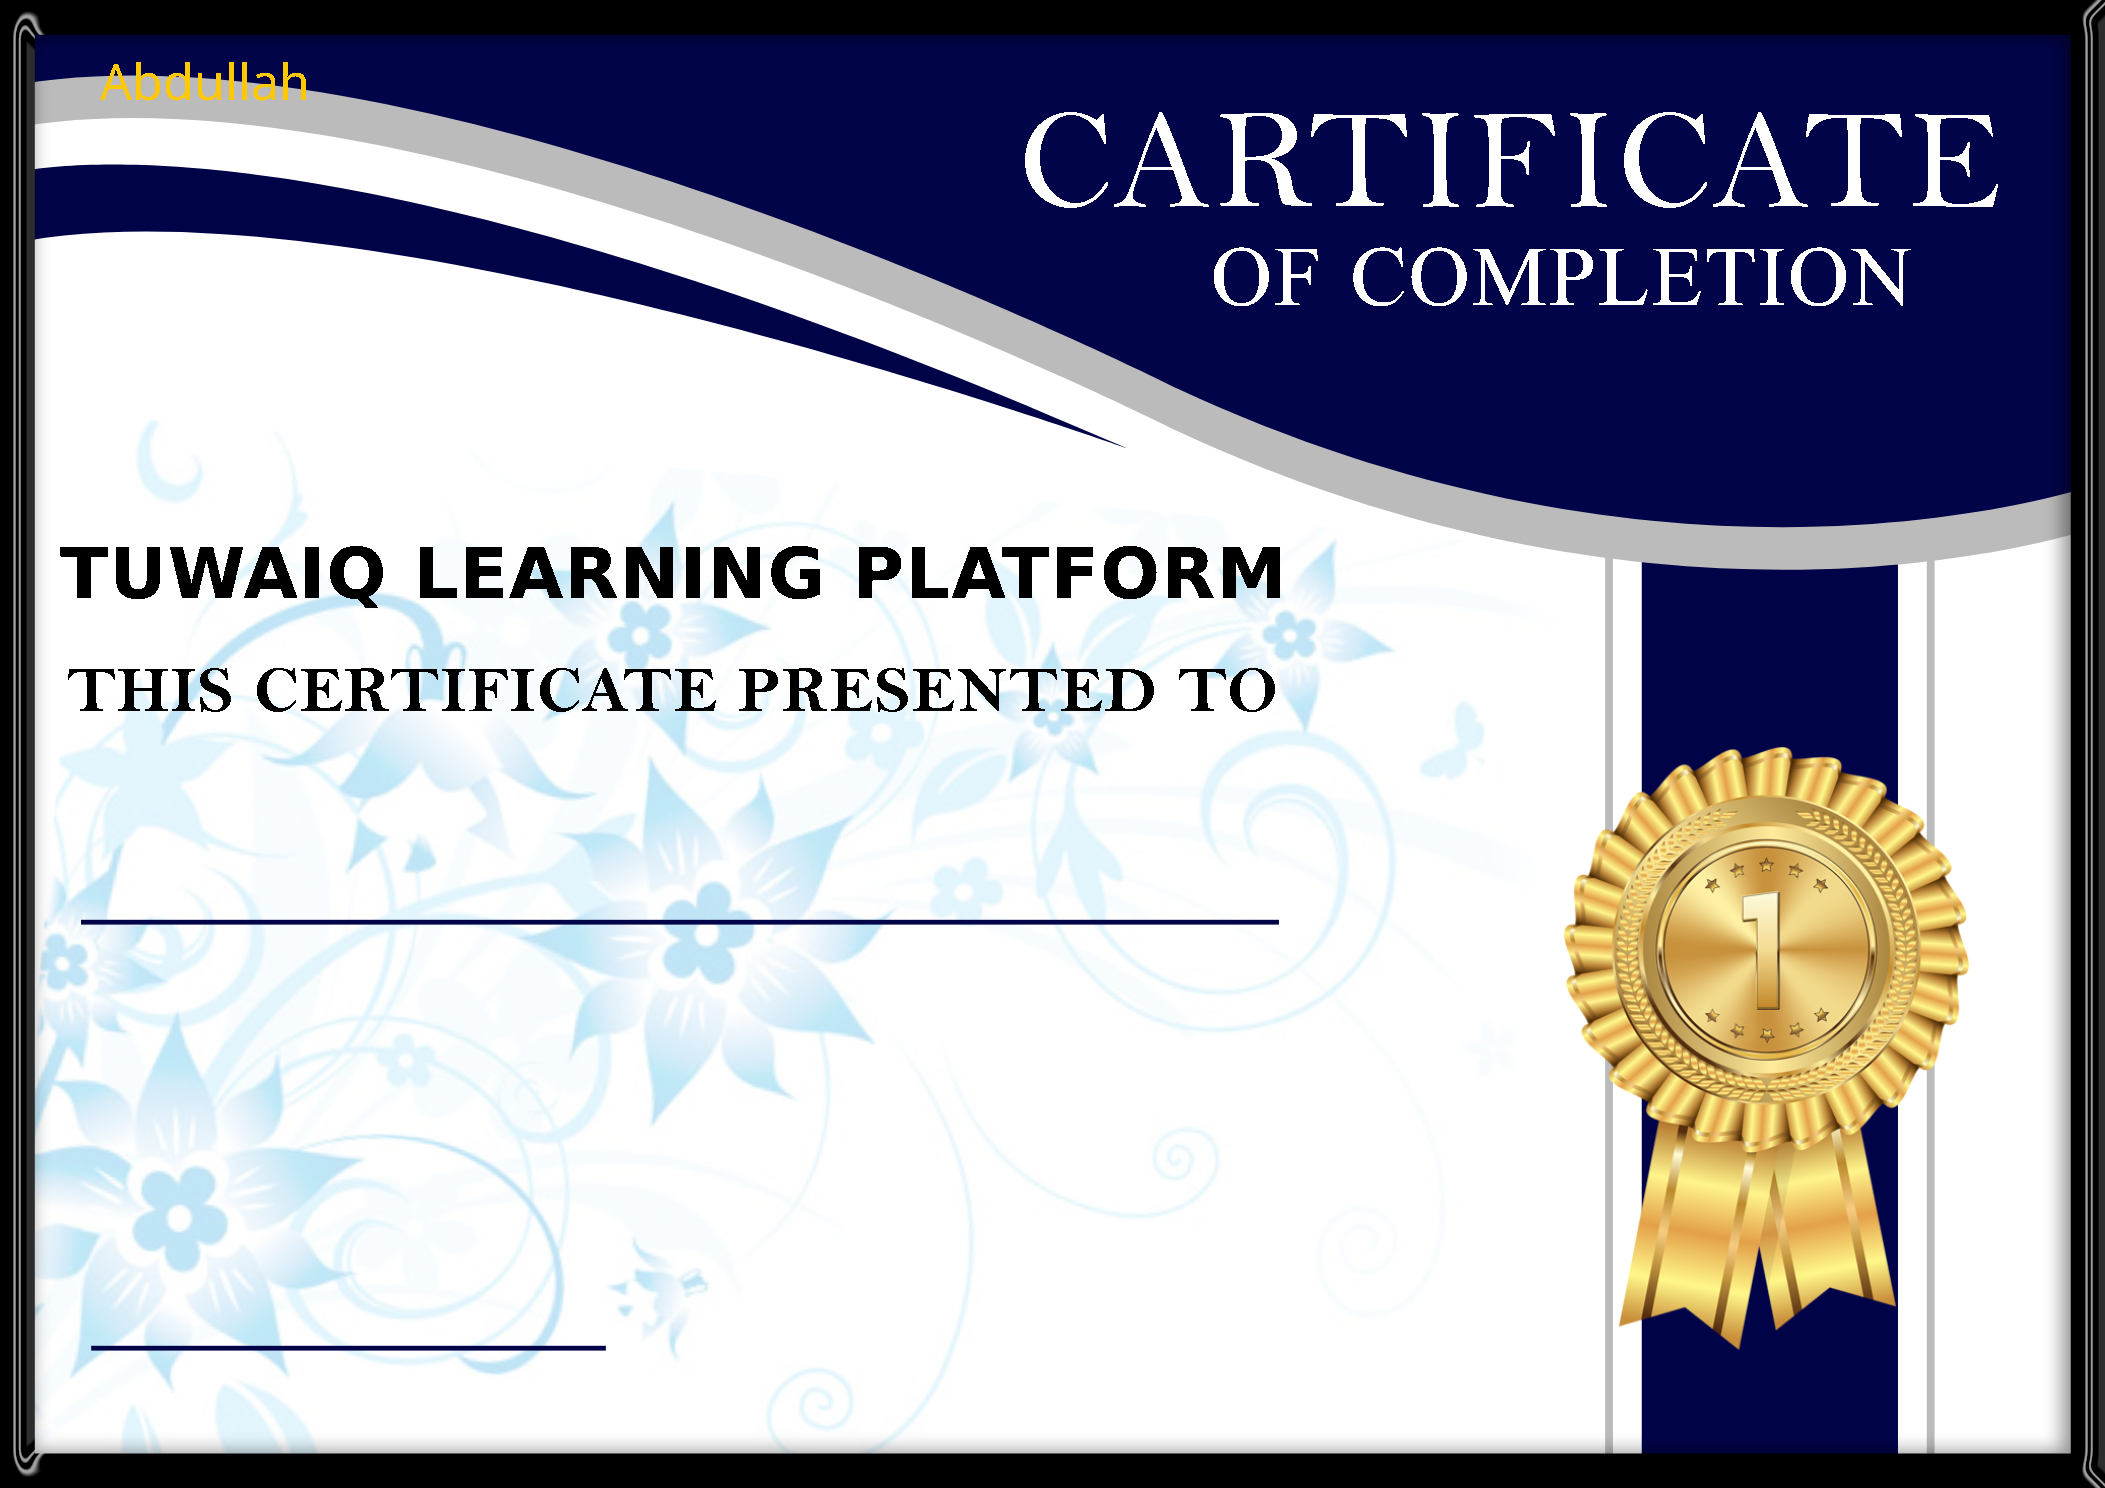
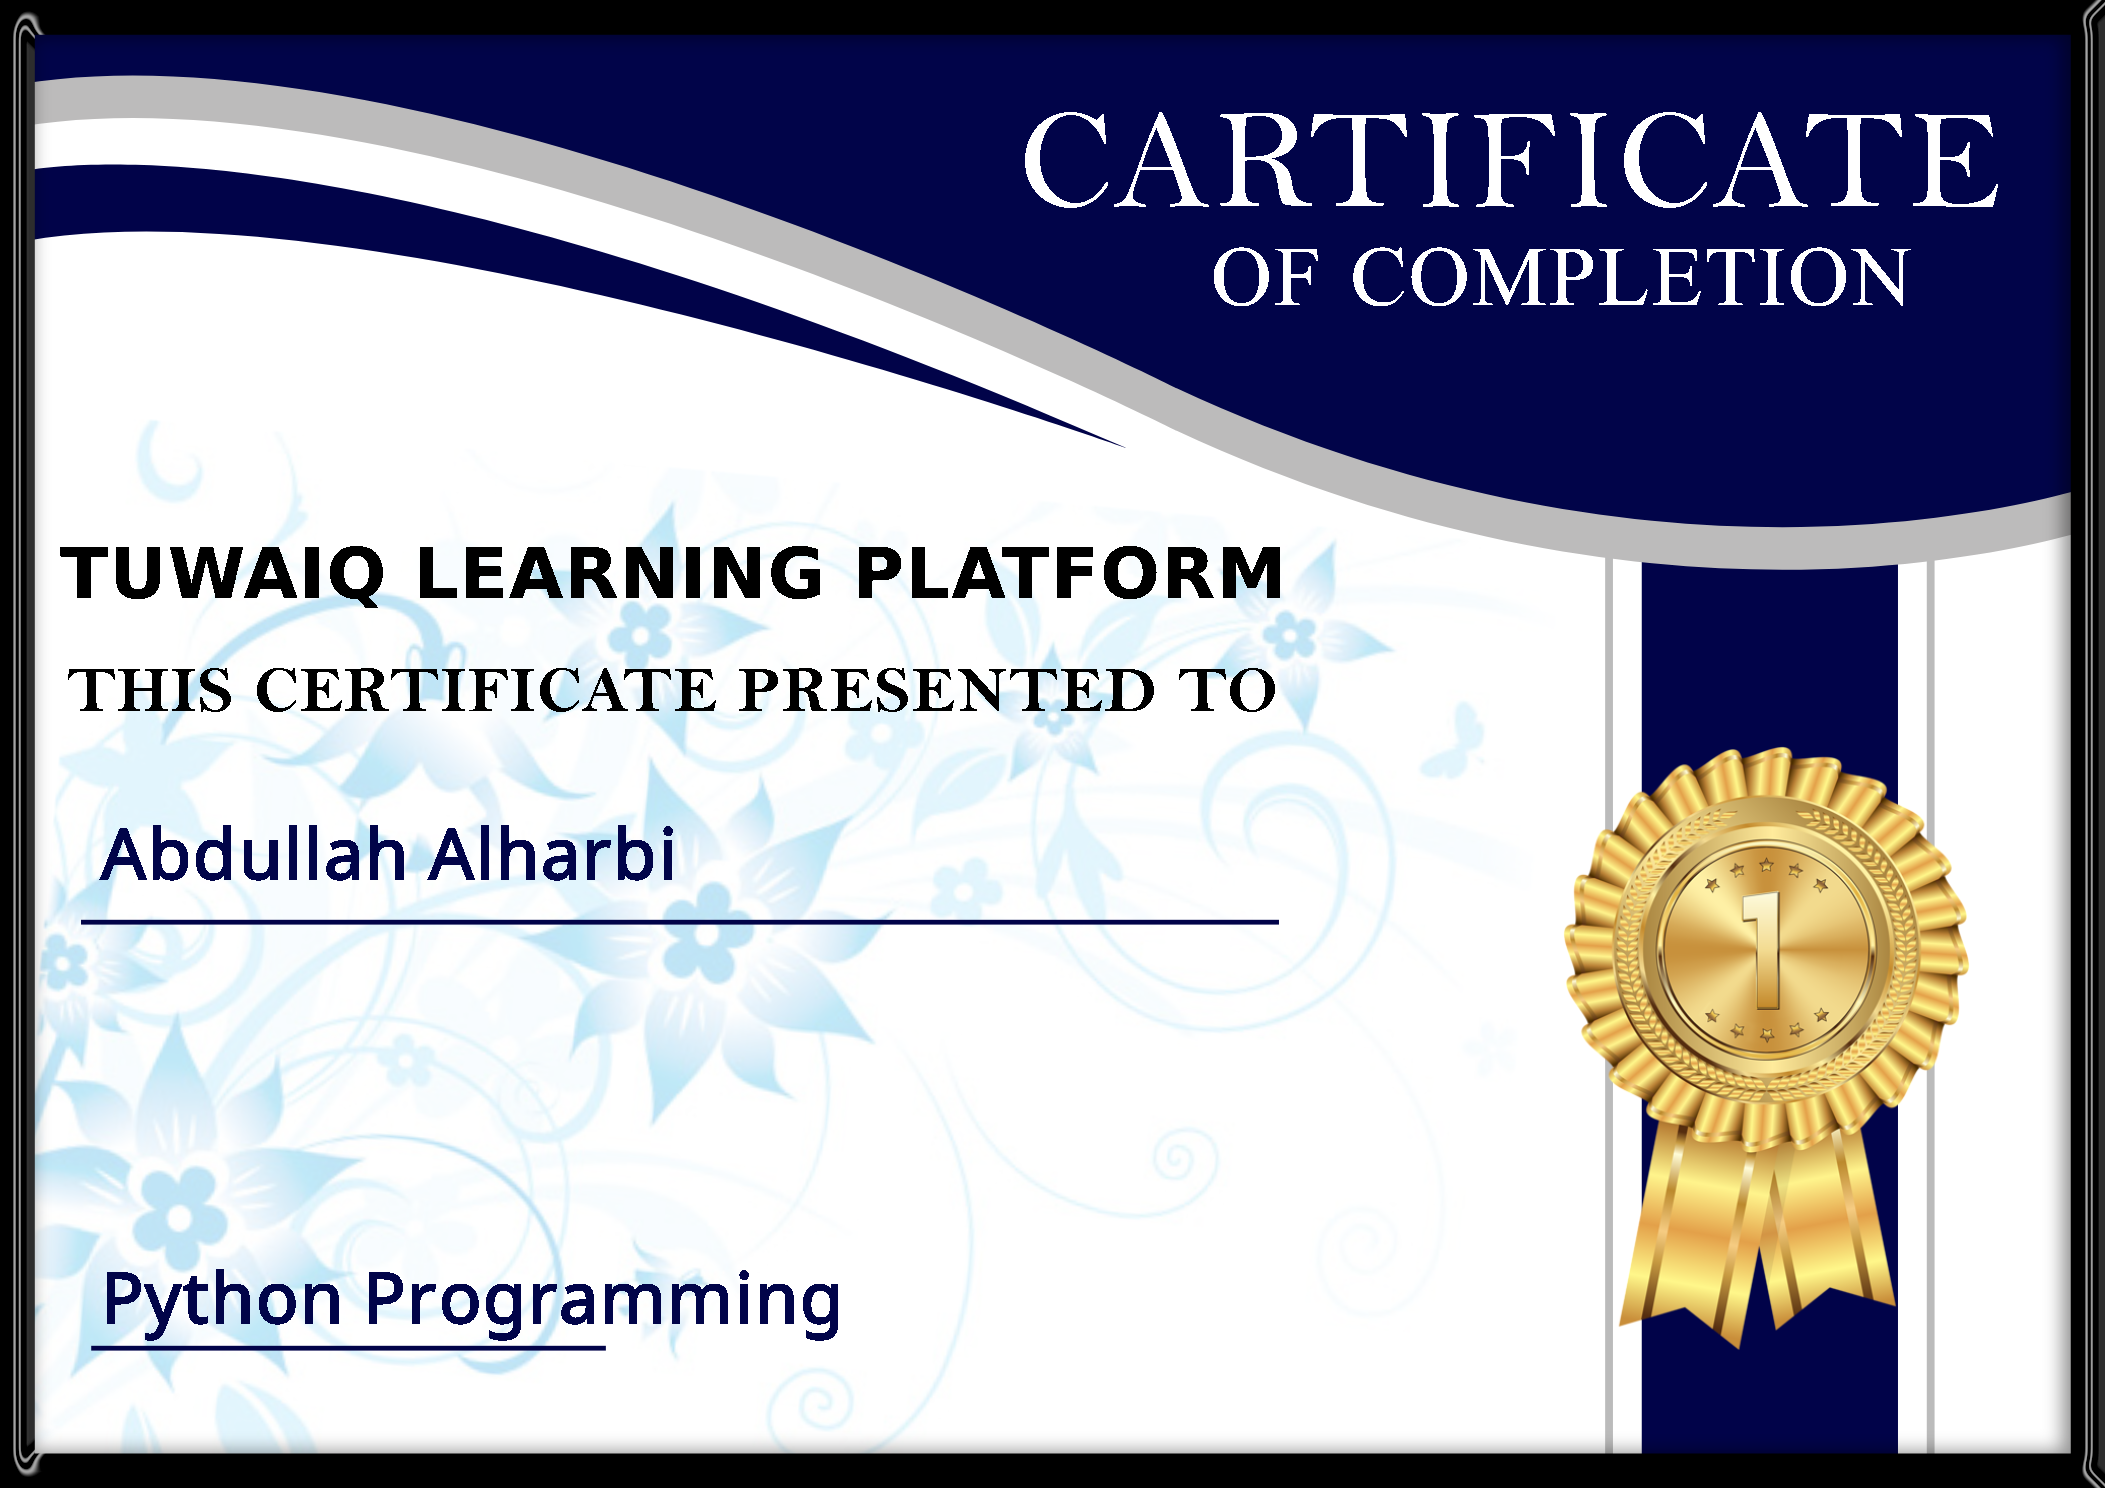
add generate certificate #11

Changed region(s): [[0.0309, 0.8656, 0.4014, 0.8965], [0.0309, 0.5565, 0.3397, 0.5874], [0.0618, 0.0309, 0.1544, 0.0618]]

diff --git a/src/test/java/com/example/learningplatform/CertificateGenerator/CertificateGeneratorTest.java b/src/test/java/com/example/learningplatform/CertificateGenerator/CertificateGeneratorTest.java
@@ -23,11 +23,15 @@ public class CertificateGeneratorTest {
         // open image
 
         final BufferedImage image = ImageIO.read(new File(CERTIFICATE_PATH));
-
+        Color color = new Color(1, 4, 73);
         Graphics g = image.getGraphics();
-        g.setColor(Color.ORANGE);
-        g.setFont(g.getFont().deriveFont(50f));
-        g.drawString("Abdullah", 100, 100);
+        g.setColor(color);
+
+        Font font = new Font("Arial", Font.BOLD, 70);
+        g.setFont(font);
+        g.drawString("Abdullah Alharbi", 100, 880);
+        g.drawString("Python Programming", 100, 1324);
+
         g.dispose();
 
         ImageIO.write(image, "png", new File(WRITE_TO + "abdullah_certificate.png"));
